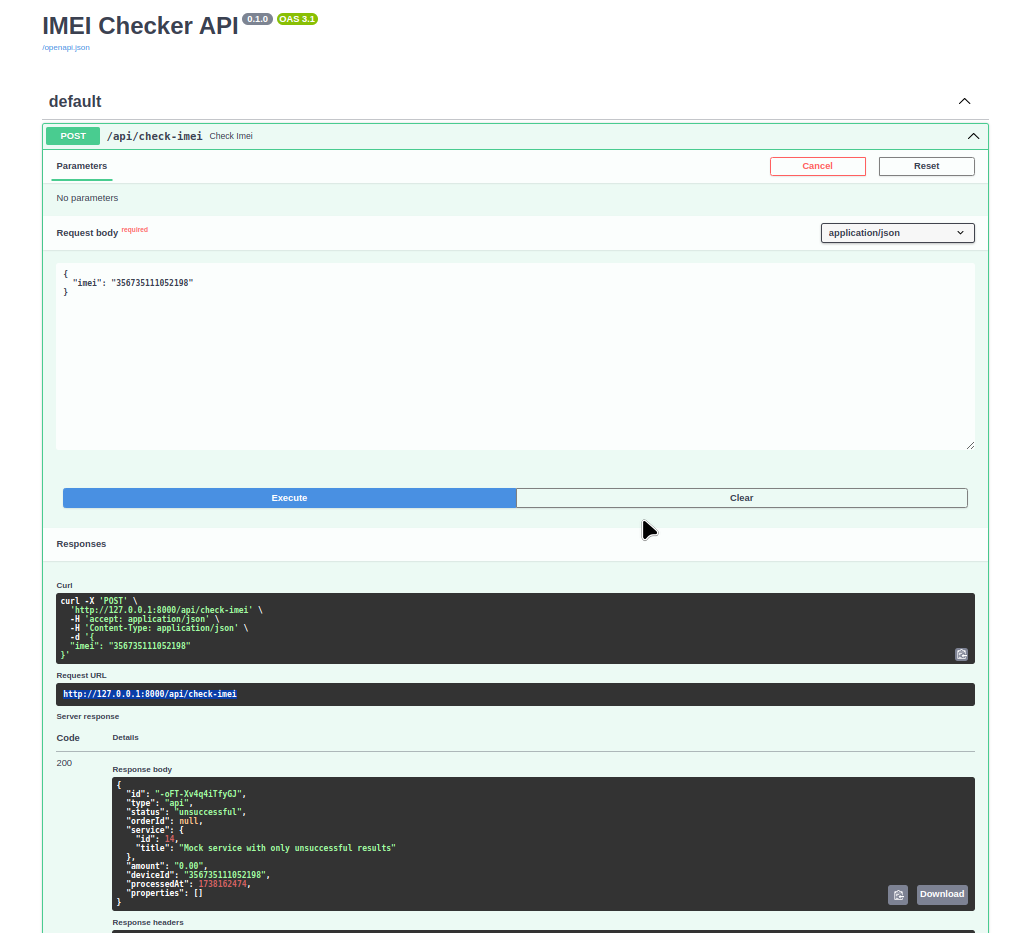
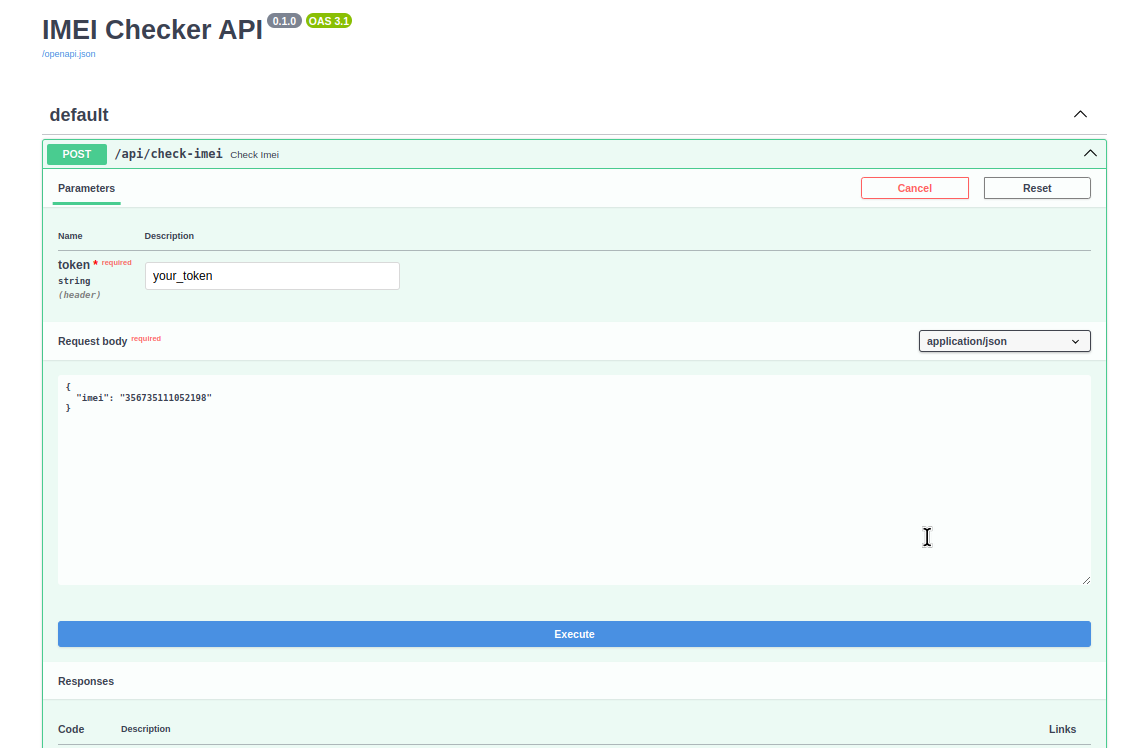
add auth, refactoring

Changed region(s): [[0.0305, 0.4305, 0.9773, 1.0], [0.0305, 0.0, 0.9773, 0.3997], [0.7941, 0.4305, 0.9773, 0.492]]

diff --git a/app/backend/main.py b/app/backend/main.py
@@ -1,24 +1,25 @@
 import asyncio
 
-from fastapi import FastAPI, HTTPException
+from fastapi import Depends, FastAPI, HTTPException
 from pydantic import BaseModel
 
 from .utils import check_imei_device
+from .auth import check_token
 
 
 app = FastAPI(
     debug=True,
-    title="IMEI Checker API"
+    title="IMEI Checker API",
 )
 
 
 class IMEIRequest(BaseModel):
     imei: str
+    
 
-
-@app.post("/api/check-imei")
+@app.post("/api/check-imei", dependencies=[Depends(check_token)])
 def check_imei(request: IMEIRequest):
     result = asyncio.run(check_imei_device(request.imei))
     if not result:
         raise HTTPException(status_code=404, detail="IMEI not found")
-    return result
+    return {"result": result}

diff --git a/app/bot/api.py b/app/bot/api.py
@@ -1,11 +1,13 @@
 import httpx
 
+from config import IMEI_API_TOKEN
 
 async def check_imei_device(imei: str):
     url = "http://127.0.0.1:8000/api/check-imei"
 
     headers = {
-        "Content-Type": "application/json"
+        "Content-Type": "application/json",
+        "token": IMEI_API_TOKEN
     }
 
     body = {

diff --git a/app/backend/auth.py b/app/backend/auth.py
@@ -1,0 +1,8 @@
+from fastapi import HTTPException, Header
+
+from .config import IMEI_API_TOKEN
+
+
+def check_token(token: str = Header(...)) -> dict:
+    if token != IMEI_API_TOKEN:
+        raise HTTPException(status_code=401, detail="Invalid token")

diff --git a/app/backend/utils.py b/app/backend/utils.py
@@ -29,3 +29,4 @@ async def check_imei_device(device_id: str):
             return {"error": f"Request error: {str(err)}"}
         except Exception as err:
             return {"error": f"Unexpected error: {str(err)}"}
+        

diff --git a/app/bot/config.py b/app/bot/config.py
@@ -13,6 +13,7 @@ else:
 
 BOT_TOKEN = os.getenv("BOT_TOKEN")
 ADMINS = os.getenv("ADMINS")
+IMEI_API_TOKEN = os.getenv("IMEI_API_TOKEN")
 
 
 def get_admins_tg():

diff --git a/app/backend/config.py b/app/backend/config.py
@@ -12,3 +12,4 @@ else:
 
 
 IMEI_API_TOKEN = os.getenv("IMEI_API_TOKEN")
+BOT_TOKEN = os.getenv("BOT_TOKEN")

diff --git a/README.md b/README.md
@@ -35,12 +35,15 @@ uvicorn app.backend.main:app --host 0.0.0.0 --port 8000 --reload
 python app/bot/main.py
 ```
 
-## API документация находится по адресу `http://127.0.0.1:8000/docs`
+#### API документация находится по адресу `http://127.0.0.1:8000/docs`
+#### Тестовый IMEI - `356735111052198`
+
 
 ## Пример работы
 
 <p align="center">
   <img src="img/1.png" width="600" height="auto" />
+  <img src="img/3.png" width="600" height="auto" />
   <img src="img/2.png" width="600" height="auto" />
 </p>
 
